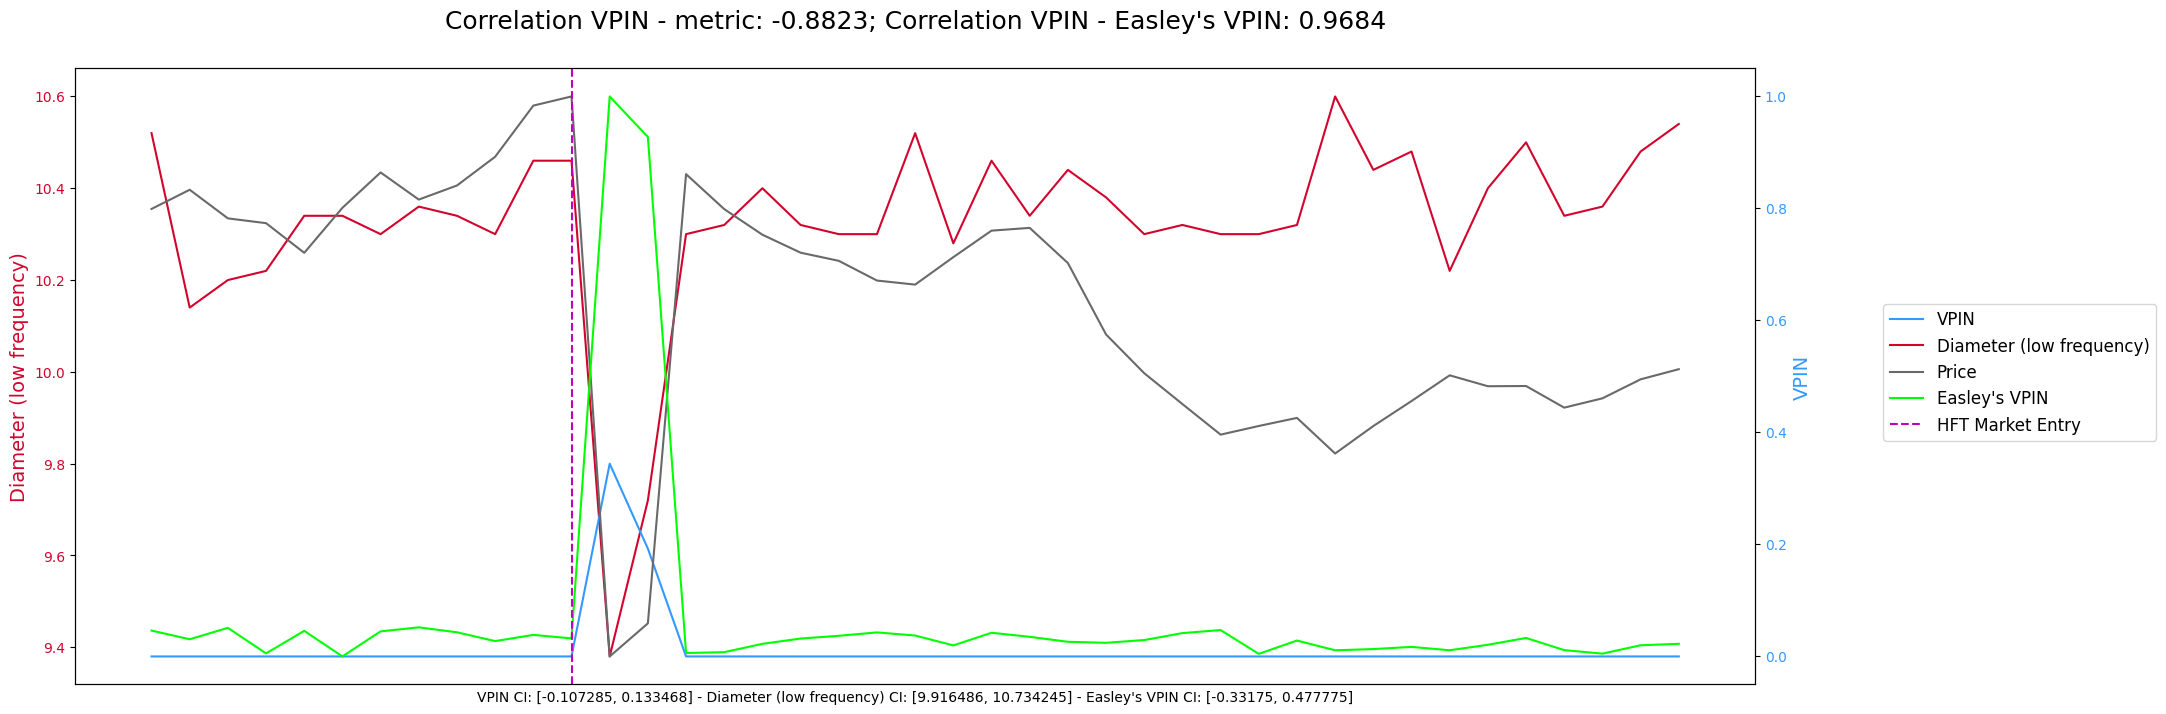
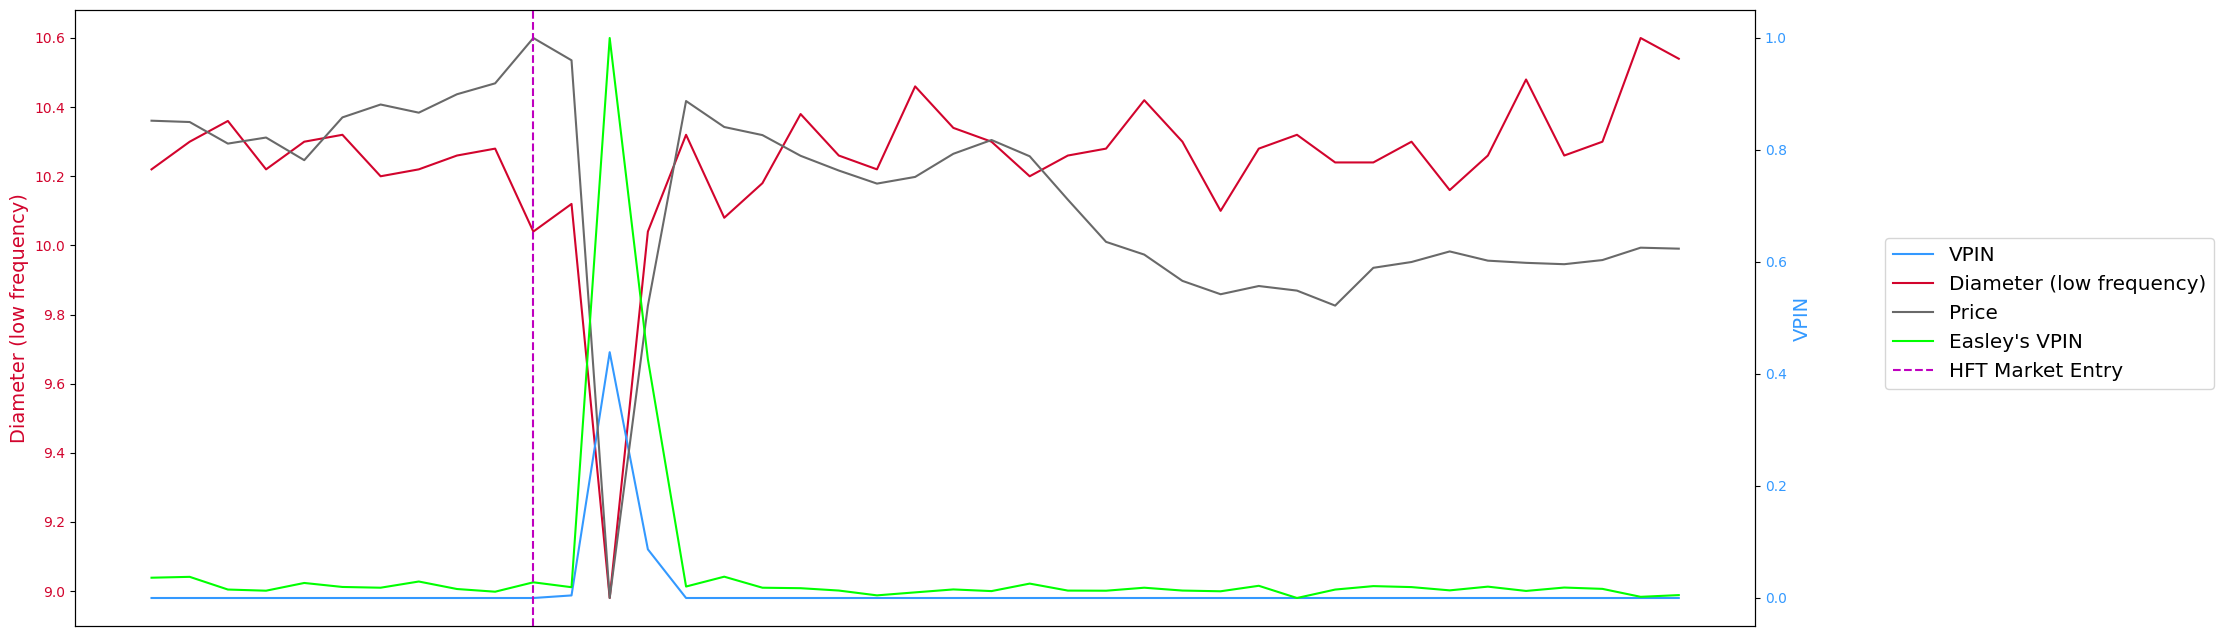
add stats

diff --git a/plots/monte-carlo/graph_metrics.py b/plots/monte-carlo/graph_metrics.py
@@ -47,19 +47,46 @@ def plot_metrics(X, Y1, Y2, Y3, Y4, metric1, metric2, metric3, metric4, window_s
     l3, = ax2.plot(X, Y3_norm, color=COLOR_PRICE)
     l4, = ax2.plot(X, Y4, color=COLOR_EASLEY_VPIN)
 
+    def detect_spikes(data, threshold=3):
+        mean = np.mean(data)
+        std = np.std(data)
+        z_scores = (data - mean) / std
+        return np.where(np.abs(z_scores) > threshold)[0]
+
+    def split_data(data, spike_indices, window=3):
+        spike_region = []
+        non_spike_region = []
+        for i in range(len(data)):
+            if any(abs(i - idx) <= window for idx in spike_indices):
+                spike_region.append(data[i])
+            else:
+                non_spike_region.append(data[i])
+        return np.array(non_spike_region), np.array(spike_region)
+
+    def compute_stats(data):
+        mean = np.mean(data)
+        std = np.std(data)
+        lower = mean - 2 * std
+        upper = mean + 2 * std
+        return mean, std, lower, upper
+
     # Standard deviation and confidence interval
-    standard_deviation_metric1 = np.std(Y1) # VPIN
-    standard_deviation_metric2 = np.std(Y2) # Metric value
-    standard_deviation_metric4 = np.std(Y4) # Easley VPIN
-    average_metric1 = np.mean(Y1)
-    average_metric2 = np.mean(Y2)
-    average_metric4 = np.mean(Y4)
-    lower_bound_1 = average_metric1 - 2 * standard_deviation_metric1
-    upper_bound_1 = average_metric1 + 2 * standard_deviation_metric1
-    lower_bound_2 = average_metric2 - 2 * standard_deviation_metric2
-    upper_bound_2 = average_metric2 + 2 * standard_deviation_metric2
-    lower_bound_4 = average_metric4 - 2 * standard_deviation_metric4
-    upper_bound_4 = average_metric4 + 2 * standard_deviation_metric4
+    spike_indices_Y1 = detect_spikes(Y1)
+    non_spike_Y1, spike_Y1 = split_data(Y1, spike_indices_Y1)
+    non_spike_Y2, spike_Y2 = split_data(Y2, spike_indices_Y1)
+    non_spike_Y4, spike_Y4 = split_data(Y4, spike_indices_Y1)
+
+    # VPIN (Y1)
+    mean_ns_1, std_ns_1, lb_ns_1, ub_ns_1 = compute_stats(non_spike_Y1)
+    mean_sp_1, std_sp_1, lb_sp_1, ub_sp_1 = compute_stats(spike_Y1)
+
+    # Metric (Y2)
+    mean_ns_2, std_ns_2, lb_ns_2, ub_ns_2 = compute_stats(non_spike_Y2)
+    mean_sp_2, std_sp_2, lb_sp_2, ub_sp_2 = compute_stats(spike_Y2)
+
+    # Easley VPIN (Y4)
+    mean_ns_4, std_ns_4, lb_ns_4, ub_ns_4 = compute_stats(non_spike_Y4)
+    mean_sp_4, std_sp_4, lb_sp_4, ub_sp_4 = compute_stats(spike_Y4)
 
     # Correlation
     correlation_vpin_metric = rolling_correlation(Y1, Y2, window_size=window_size)
@@ -67,20 +94,25 @@ def plot_metrics(X, Y1, Y2, Y3, Y4, metric1, metric2, metric3, metric4, window_s
     correlation_vpin_easley_vpin = rolling_correlation(Y1, Y4, window_size=window_size)
     correlation_vpin_easley_vpin = correlation_vpin_easley_vpin.mean()
 
-    # Plot statistics
-    number_of_rounded_decimals = 6
-    ci1 = metric1 + " CI: [" + str(round(lower_bound_1, number_of_rounded_decimals)) + ", " + \
-        str(round(upper_bound_1, number_of_rounded_decimals)) + "]"
-    ci2 = metric2 + " CI: [" + str(round(lower_bound_2, number_of_rounded_decimals)) + ", " + \
-        str(round(upper_bound_2, number_of_rounded_decimals)) + "]"
-    ci3 = metric4 + " CI: [" + str(round(lower_bound_4, number_of_rounded_decimals)) + ", " + \
-          str(round(upper_bound_4, number_of_rounded_decimals)) + "]"
-    subtitle_vpin_metric = round(correlation_vpin_metric, 4)
-    subtitle_vpin_easley_vpin = round(correlation_vpin_easley_vpin, 4)
+    # Print stats
+    with open("results/stats.txt", "a") as file:
+        file.write("\n=== VPIN Analysis ===\n")
+        file.write(f"{'Metric':<40}{'Mean (NS)':>12}{'Std (NS)':>12}{'LB (NS)':>12}{'UB (NS)':>12} | {'Mean (SP)':>12}{'Std (SP)':>12}{'LB (SP)':>12}{'UB (SP)':>12}\n")
+        file.write("-" * 148 + "\n")  # Adjusted line length to match new width
 
-    fig.text(0.2, 0.93, "Correlation VPIN - metric: " + str(subtitle_vpin_metric) + "; Correlation VPIN - Easley's VPIN: " + str(subtitle_vpin_easley_vpin), ha='center', fontsize=18)
+        # VPIN (Y1)
+        file.write(f"{metric1:<40}{mean_ns_1:>12.4f}{std_ns_1:>12.4f}{lb_ns_1:>12.4f}{ub_ns_1:>12.4f} | {mean_sp_1:>12.4f}{std_sp_1:>12.4f}{lb_sp_1:>12.4f}{ub_sp_1:>12.4f}\n")
 
-    ax1.set_xlabel(ci1 + " - " + ci2 + " - " + ci3)
+        # Metric (Y2)
+        file.write(f"{metric2:<40}{mean_ns_2:>12.4f}{std_ns_2:>12.4f}{lb_ns_2:>12.4f}{ub_ns_2:>12.4f} | {mean_sp_2:>12.4f}{std_sp_2:>12.4f}{lb_sp_2:>12.4f}{ub_sp_2:>12.4f}\n")
+
+        # Easley VPIN (Y4)
+        file.write(f"{metric4:<40}{mean_ns_4:>12.4f}{std_ns_4:>12.4f}{lb_ns_4:>12.4f}{ub_ns_4:>12.4f} | {mean_sp_4:>12.4f}{std_sp_4:>12.4f}{lb_sp_4:>12.4f}{ub_sp_4:>12.4f}\n")
+
+        file.write("\n=== Correlation Analysis ===\n")
+        file.write(f"Correlation between {metric1} and {metric2}: {correlation_vpin_metric:.4f}\n")
+        file.write(f"Correlation between {metric1} and {metric4}: {correlation_vpin_easley_vpin:.4f}\n")
+
     ax1.set_xticks([])
 
     ax2.set_ylabel(metric1, color=COLOR_VPIN, fontsize=14)
@@ -99,7 +131,7 @@ def plot_metrics(X, Y1, Y2, Y3, Y4, metric1, metric2, metric3, metric4, window_s
 
     fig.legend((l1, l2, l3, l4, crash_day_line),
                (metric1, metric2, metric3, metric4, 'HFT Market Entry'),
-               fontsize="large", loc='center left', bbox_to_anchor=(1.00, 0.5))
+               fontsize="x-large", loc='center left', bbox_to_anchor=(1.00, 0.5))
 
     # Adjust layout to make room for the legend
     plt.subplots_adjust(left=-0.5)
